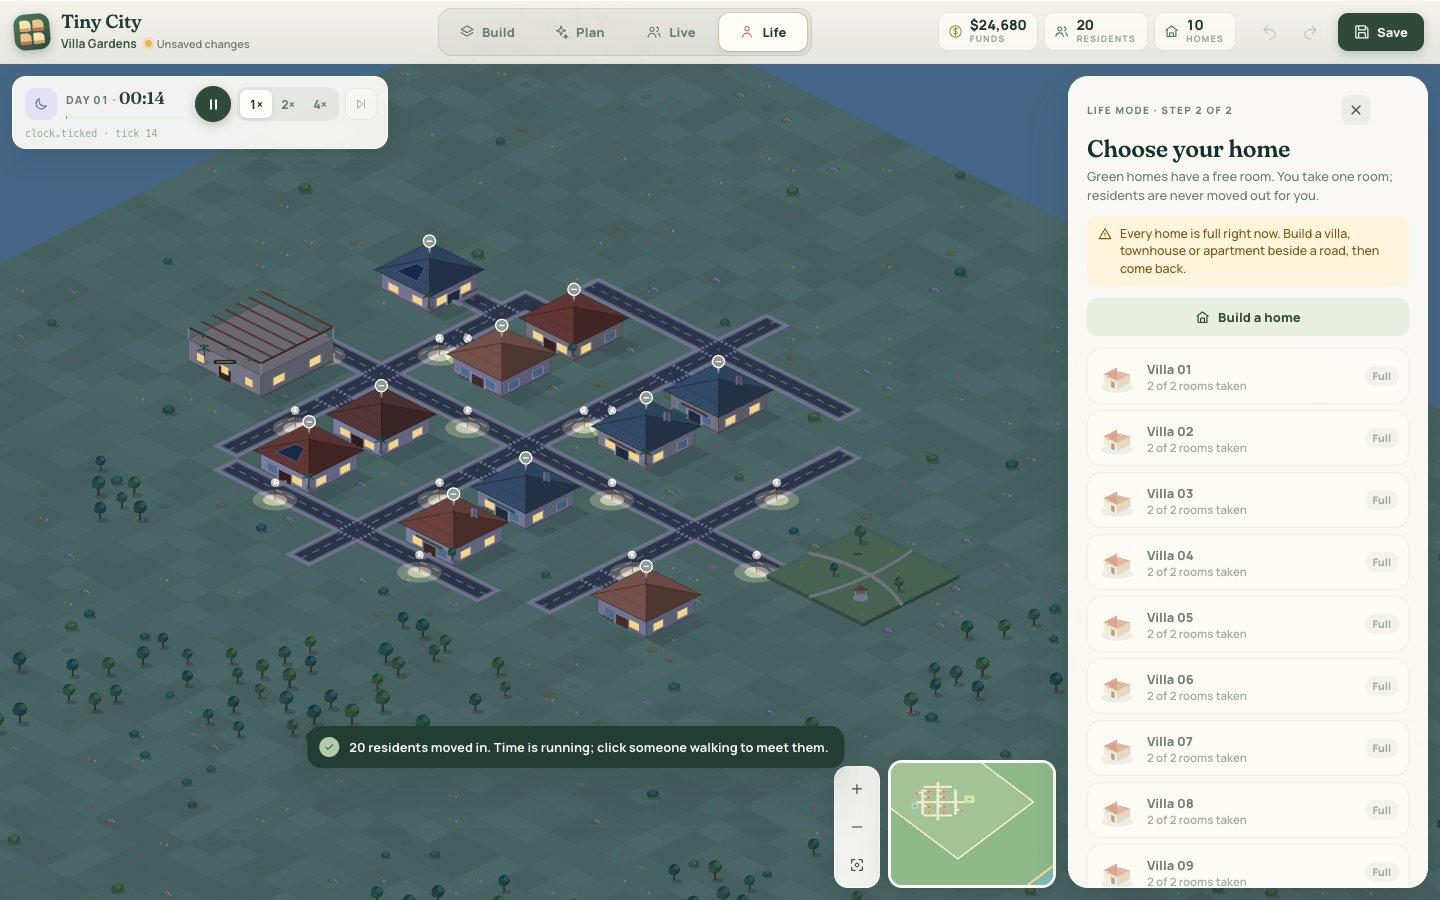
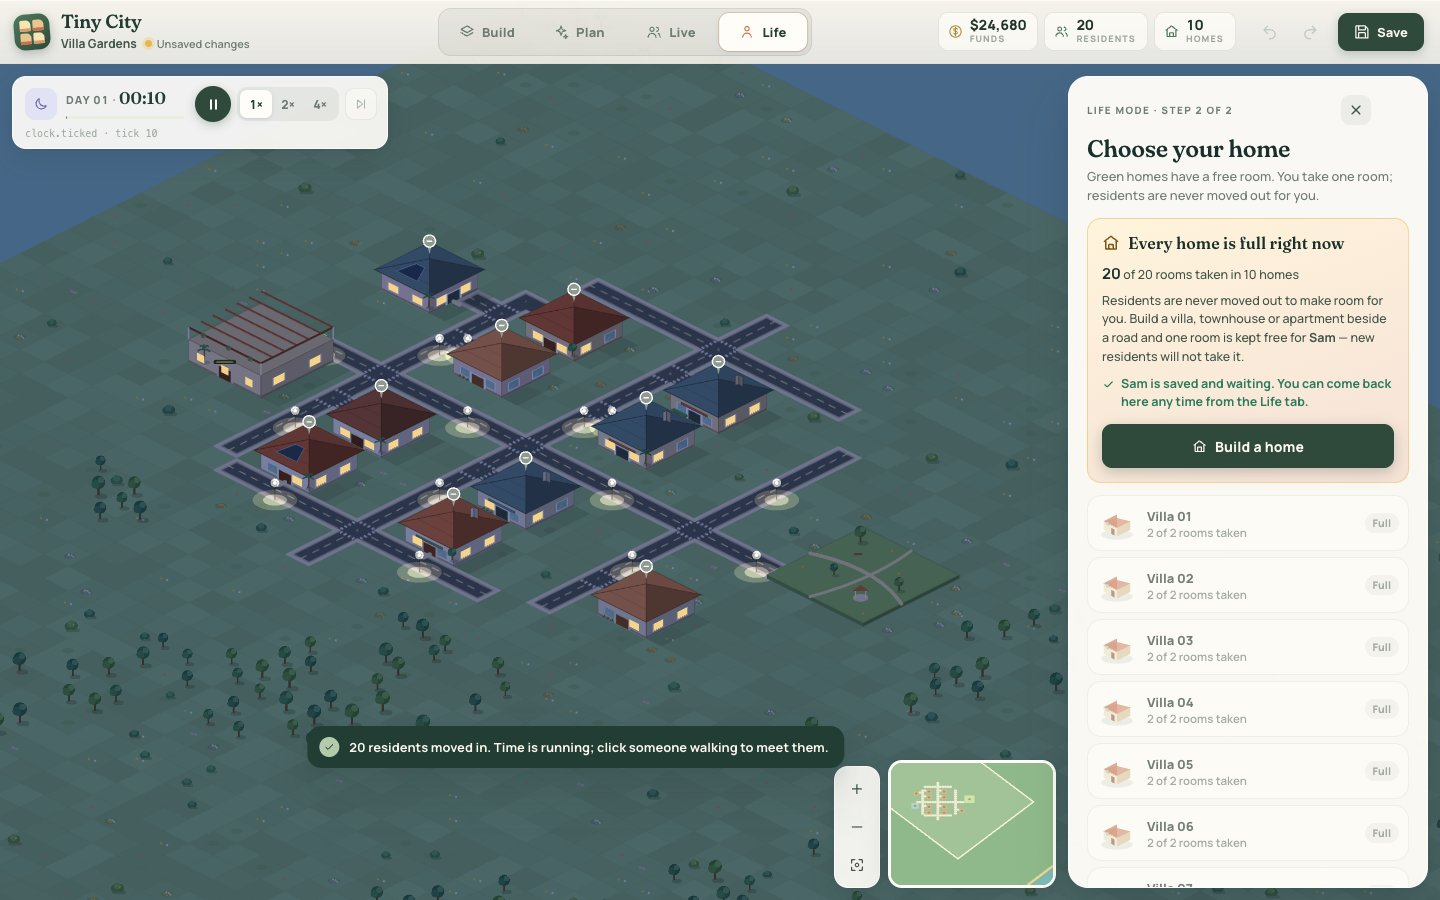
test(docs): housing recovery browser journeys, screenshots and acceptance

Changed region(s): [[0.75, 0.2489, 1.0, 0.9956], [0.9375, 0.6222, 0.9688, 0.6533]]

diff --git a/e2e/life-mode.spec.ts b/e2e/life-mode.spec.ts
@@ -196,11 +196,13 @@ test('Phase 3 saves load without a player, and full housing gets an honest fallb
   await page.getByRole('button', { name: 'Create character' }).click();
   await page.getByRole('dialog', { name: 'Create your character' }).getByLabel('Character name').fill('Sam');
   await page.getByRole('button', { name: /Next: choose a home/ }).click();
-  await expect(page.locator('.home-picker')).toContainText('Every home is full right now.');
+  await expect(page.getByRole('region', { name: 'No free home' })).toContainText('Every home is full right now');
   await expect(page.getByRole('list', { name: 'Homes' }).getByRole('button', { name: /Lagoon Villa/ })).toBeDisabled();
   await page.getByRole('button', { name: 'Build a home' }).click();
   await expect(page.getByRole('navigation', { name: 'Build tools' }).getByRole('button', { name: 'Villa $120', exact: true })).toHaveAttribute('aria-pressed', 'true');
-  expect((await save(page)).simulation.player).toBeUndefined();
+  // The character is kept (unplaced) instead of being lost when the player leaves to build.
+  expect((await save(page)).simulation.player).toMatchObject({ name: 'Sam', homeBuildingId: null, movement: { status: 'unplaced' } });
+  await expect(page.getByRole('button', { name: 'Back to home selection' })).toContainText('Sam needs a home');
   expect(errors).toEqual([]);
 });
 
@@ -273,3 +275,89 @@ test('phone layout: Life tab, full-screen creator, home sheet and compact HUD', 
   await expect(page.getByRole('navigation', { name: 'Build tools' }).getByRole('button', { name: 'Road $8', exact: true })).toBeVisible();
   expect(errors).toEqual([]);
 });
+
+/** The reported bug: a populated city where every room is taken. The player must recover without editing saves. */
+async function fullCityRecovery(page: Page, buildAt: { x: number; y: number }) {
+  await page.getByRole('button', { name: 'Live', exact: true }).click();
+  await page.getByRole('button', { name: 'Welcome residents' }).click();
+  await page.getByRole('button', { name: 'Pause', exact: true }).click();
+  const before = await save(page);
+  const residents = new Map(before.simulation.citizens.map((c) => [c.id, c.homeBuildingId]));
+  expect(residents.size).toBe(8);
+  await page.getByRole('button', { name: 'Life', exact: true }).click();
+  await page.getByRole('button', { name: 'Create character' }).click();
+  await page.getByRole('dialog', { name: 'Create your character' }).getByLabel('Character name').fill('Mai');
+  await page.getByRole('button', { name: /Next: choose a home/ }).click();
+  const recovery = page.getByRole('region', { name: 'No free home' });
+  await expect(recovery).toContainText('Every home is full right now');
+  await expect(recovery).toContainText('8 of 8 rooms taken in 3 homes');
+  await expect(page.getByRole('list', { name: 'Homes' }).getByRole('button', { disabled: false })).toHaveCount(0);
+  await recovery.getByRole('button', { name: 'Build a home' }).click();
+  await expect(page.getByRole('navigation', { name: 'Build tools' }).getByRole('button', { name: 'Villa $120', exact: true })).toHaveAttribute('aria-pressed', 'true');
+  if (await page.getByRole('button', { name: 'Center neighborhood' }).isVisible()) await centerCity(page);
+  else {
+    // Phones hide the camera buttons: center the lot through the minimap, then let the camera settle.
+    const minimap = (await page.getByRole('button', { name: 'Navigate neighborhood overview' }).boundingBox())!;
+    await page.mouse.click(minimap.x + minimap.width * (buildAt.x + 1) / 64, minimap.y + minimap.height * (buildAt.y + 1) / 64);
+    await page.waitForTimeout(600);
+  }
+  await clickTile(page, buildAt.x, buildAt.y);
+  await expect(notice(page)).toContainText('has a free room for Mai');
+  const built = (await save(page)).simulation;
+  const villa = built.plan.buildings.find((b) => !before.simulation.plan.buildings.some((old) => old.id === b.id))!;
+  // No resident was moved or removed; the new villa got one resident and kept one room for the player.
+  for (const [id, home] of residents) expect(built.citizens.find((c) => c.id === id)?.homeBuildingId).toBe(home);
+  expect(built.citizens.filter((c) => c.homeBuildingId === villa.id)).toHaveLength(1);
+  expect(built.player).toMatchObject({ name: 'Mai', movement: { status: 'unplaced' } });
+  await page.getByRole('button', { name: 'Back to home selection' }).click();
+  await expect(page.getByRole('heading', { name: 'Choose your home' })).toBeVisible();
+  const fresh = page.getByRole('list', { name: 'Homes' }).getByRole('button', { name: /New/ });
+  await expect(fresh).toContainText('1 of 2 rooms taken');
+  await fresh.click();
+  await page.getByRole('region', { name: 'Confirm home' }).getByRole('button', { name: 'Move in & start' }).click();
+  await expect(notice(page)).toContainText('Welcome home, Mai!');
+  return { residents, villa };
+}
+
+test('housing recovery: all homes full, build a home, the held room survives residents, move in, walk and reload', async ({ page }) => {
+  const errors = await openCity(page);
+  const { residents, villa } = await fullCityRecovery(page, { x: 28, y: 21 });
+  await page.getByRole('button', { name: 'Pause', exact: true }).click();
+  const placed = (await save(page)).simulation;
+  expect(placed.player).toMatchObject({ homeBuildingId: villa.id, movement: { status: 'inside', currentBuildingId: villa.id } });
+  expect(placed.citizens).toHaveLength(9);
+  for (const [id, home] of residents) expect(placed.citizens.find((c) => c.id === id)?.homeBuildingId).toBe(home);
+  // Play: walk along the street.
+  await centerCity(page);
+  await clickTile(page, 36, 20);
+  await expect(status(page)).toContainText('Walking to the street at 36, 20');
+  await page.getByRole('button', { name: 'Resume', exact: true }).click();
+  await expect(status(page)).toContainText('Free to explore', { timeout: 30_000 });
+  // City edits keep housing consistent: another villa now fills completely with residents.
+  await page.getByRole('button', { name: 'Pause', exact: true }).click();
+  await page.getByRole('button', { name: 'Build', exact: true }).click();
+  await page.getByRole('navigation', { name: 'Build tools' }).getByRole('button', { name: 'Villa $120', exact: true }).click();
+  await centerCity(page);
+  await clickTile(page, 32, 21);
+  await expect.poll(async () => (await save(page)).simulation.plan.buildings.length).toBe(placed.plan.buildings.length + 1);
+  const grown = (await save(page)).simulation;
+  expect(grown.citizens).toHaveLength(11);
+  expect(grown.citizens.filter((c) => c.homeBuildingId === villa.id)).toHaveLength(1);
+  await page.reload();
+  await expect(page.locator('canvas')).toBeVisible();
+  await expect(page.getByRole('button', { name: 'Life', exact: true })).toHaveAttribute('title', 'Continue life as Mai');
+  const reloaded = (await save(page)).simulation;
+  expect(reloaded.player).toEqual(grown.player);
+  expect(reloaded.citizens).toHaveLength(11);
+  expect(errors).toEqual([]);
+});
+
+test('phone: full-housing recovery to a playable character', async ({ page }) => {
+  await page.setViewportSize({ width: 390, height: 844 });
+  const errors = await openCity(page);
+  await fullCityRecovery(page, { x: 28, y: 21 });
+  await expect(page.getByRole('region', { name: 'Life HUD' })).toContainText('Mai');
+  await expect(page.getByRole('button', { name: 'Back to home selection' })).toHaveCount(0);
+  expect(errors).toEqual([]);
+});
+

diff --git a/docs/acceptance/ai-architect-2-and-life-housing.md b/docs/acceptance/ai-architect-2-and-life-housing.md
@@ -1,0 +1,98 @@
+# Acceptance — AI Architect 2.0 and Life Mode housing fix
+
+Branch `feature/ai-architect-2`, created from `origin/main` @ `131f1df` (Phase 4 merged as #10).
+
+## AI ARCHITECT 2.0 ACCEPTANCE
+
+**Status: not started — not accepted.** The AI Architect 2.0 requirements referenced by the housing addendum ("all
+previous AI Architect 2.0 requirements") were never provided in this session. No AI Architect behavior was changed on
+this branch, and none is claimed. The existing Phase 2 AI Architect still passes its regression suites: architect
+unit tests 31/31, API 61/61, and the `ai-architect` e2e spec as part of the 35/35 run. The Life Mode e2e also
+covers an AI preview and approval with a character present.
+
+## LIFE MODE HOUSING ACCEPTANCE
+
+### Root cause (reproduced, not assumed)
+
+- **Engine:** reproduction in `packages/simulation/tests/playerHousing.test.ts` ("reproduces the
+  bug"). A populated street with every room taken stays fully booked even after a new villa is built.
+- **Browser:** a temporary Playwright reproduction on the unfixed code showed three things:
+  - after building a villa, the new home held 2/2 residents;
+  - the saved world had no player;
+  - Life mode asked to create the character again, and every home was still Full.
+- **Causes:**
+  1. *Welcome residents* uses a population cap of 1000, far above housing, so every room fills.
+  2. Every city command re-runs `reconcilePopulation`, which immediately filled any newly built home, so "Build a
+     home" was a dead end.
+  3. The character draft existed only in React state, so leaving to build lost it.
+
+### Fix
+
+- **Unplaced characters.** `player.create` without a home creates the character with movement status `unplaced`.
+  - It is validated, saved and reloaded, never rendered, and never progresses needs.
+  - `player.move-in` is its spawn.
+- **Held room.** While a player has no home (unplaced, or after losing it), population reconciliation stops creating
+  *new* residents when one free room remains.
+  - Existing residents are housed first, so the hold never displaces, evicts or re-homes anyone.
+  - Capacities are unchanged, and allocation stays deterministic in building-ID order.
+- **Placed players** keep the existing rule: their home counts one room for them (`capacity − 1` for residents).
+- **UX:**
+  - The picker explains full housing with real counts and offers **Build a home**.
+  - The character is saved and waiting; a **Back to home selection** chip and the Life tab lead back.
+  - A notice names the home that now has a free room, and new homes get a **New** chip and gold halo.
+  - Availability refreshes after every city change, and the phone layout keeps the map visible while building.
+
+### Criteria
+
+| # | Criterion | Result | Evidence |
+| --- | --- | --- | --- |
+| 1 | Character creation works | Pass | Unit, App and e2e tests |
+| 2 | Full housing handled correctly | Pass | Recovery region with real counts; the character is kept (App and e2e tests) |
+| 3 | Player can build or obtain valid housing | Pass | e2e builds a villa from the recovery flow; AI batch unit test |
+| 4 | Residents don't consume the reserved place | Pass | Repeated reconciliation, re-enable, road edits, undo/redo (unit); 1 of 2 rooms taken in the new villa (e2e) |
+| 5 | Player can move into a valid home | Pass | e2e (desktop and phone) |
+| 6 | Player spawns | Pass | e2e: Welcome notice, Life HUD, inside the new villa |
+| 7 | Player can walk and interact | Pass | e2e walk after recovery; existing journey still meets a resident |
+| 8 | Save/reload preserves housing | Pass | e2e reload gives an identical player; unit round-trip of the unplaced state |
+| 9 | No silent displacement | Pass | Every original resident keeps their home (unit and e2e); demolition removes only that home's residents |
+| 10 | Capacity and invariants | Pass | `validateWorld` and per-home capacity checks after every step in `playerHousing.test.ts` |
+| 11 | Browser e2e passes | Pass | 35/35 (2 new housing journeys) |
+
+Also covered:
+- apartment builds (23 residents and the player);
+- normal filling after the player moves in;
+- homes moved;
+- demolition of the player's home followed by reassignment;
+- undo/redo of the new home;
+- AI batch building then move-in;
+- legacy fully occupied saves (no character created);
+- a character created before residents arrive (room reserved up front).
+
+### Test results (2026-10-12)
+
+| Command | Result |
+| --- | --- |
+| `npm run typecheck` | Pass |
+| `npm test` | 123 passed |
+| `npm run test:simulation` | 270 passed (9 new housing tests) |
+| `npm run test:architect` | 31 passed |
+| `npm run security` | 0 findings |
+| `npm run build` | Pass |
+| API pytest | 61 passed |
+| `npm run test:e2e` (mock Gemini) | 35 passed (2 new housing journeys; full-housing test updated to the kept-character behavior) |
+
+Screenshots (reviewed): `docs/life/screenshots/16-no-free-home.jpg`, `22-recovery-build-mode.jpg`,
+`23-recovery-new-home.jpg`, `24-recovery-moved-in.jpg`.
+
+### Limitations
+
+- Recovery needs new housing: by design, nobody is moved out. An explicit, user-approved resident relocation was not
+  added.
+- The held room is one room city-wide, kept in the last home that has space in building-ID order. The player may
+  pick any free room.
+- There is no "delete character" action; a waiting character stays until it moves in.
+
+### Overall
+
+Not accepted overall: the Life Mode housing fix passes, but AI Architect 2.0 has not been implemented because its
+requirements were not provided.

diff --git a/docs/life/phase-4b-experience.md b/docs/life/phase-4b-experience.md
@@ -32,6 +32,17 @@ Screenshots referenced below are in `docs/life/screenshots/` and were captured w
    - A confirm card explains the occupancy rule, warns when the home has no road, and offers to welcome residents
      too (checked by default when none live there yet).
    - With no free room, the picker says so and offers **Build a home**, which opens Build mode with the villa tool.
+   **Full-housing recovery** (`16`, `22`–`24`):
+   1. The character is created when you continue from the creator and is saved while waiting.
+   2. With no free room, the picker explains why, shows the real counts ("20 of 20 rooms taken in 10 homes"), says
+      residents are never moved out, and offers **Build a home**.
+   3. In Build mode a **Back to home selection** chip ("Mai needs a home") stays visible, and the Life tab title
+      reads "Choose a home for Mai".
+   4. Once a build frees a room (the engine holds one for the waiting character), a notice names the home, and the
+      chip shows the free room count.
+   5. Back in home selection, new homes are listed first with a **New** chip and a gold halo badge on the map.
+   6. Confirm, then move in to spawn and play. No restart or save editing is needed. On phones, Build mode opens with
+      the map visible.
 4. **First spawn** (`05`): the character appears inside their home, shown by a terracotta pin over the roof. Time
    resumes, the camera focuses, and a welcome toast explains the controls.
 

diff --git a/docs/PROGRESS.md b/docs/PROGRESS.md
@@ -80,3 +80,12 @@ Results: typecheck pass · unit 122 · simulation 261 · architect 31 · securit
 Notes for resuming: the browser pane in this desktop app is often hidden, which (by design) freezes the clock;
 use Playwright (`e2e/life-mode.spec.ts`, `scripts/capture_life.mjs`) for timed checks. Software-render benchmarks
 must run on an otherwise idle machine.
+
+## AI Architect 2.0 + Life Mode housing fix (branch `feature/ai-architect-2`, from `origin/main` @ `131f1df`)
+
+- [x] Life Mode housing: reproduced (engine + browser), unplaced characters, held room for a homeless player,
+  recovery UX (explanation, Build a home, Back to home selection chip, New homes), tests, docs
+  (`docs/acceptance/ai-architect-2-and-life-housing.md`).
+- [ ] AI Architect 2.0: requirements not provided in this session; nothing implemented yet.
+
+Results: typecheck pass · unit 123 · simulation 270 · architect 31 · security 0 · build pass · API 61 · e2e 35.
